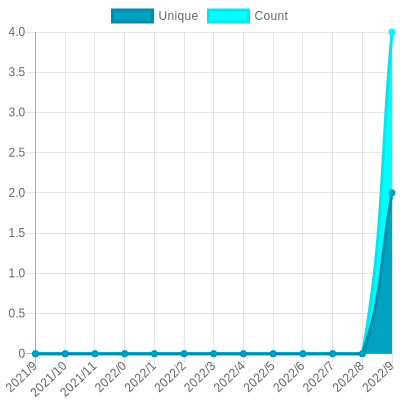
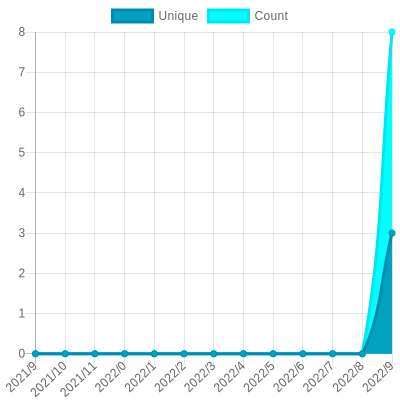
Update views

diff --git a/README.md b/README.md
@@ -26,7 +26,7 @@ The project created and maintained by [gayanvoice](https://github.com/gayanvoice
 			</a>
 		</td>
 		<td>
-			2021/10/24 12:16 AM UTC
+			2021/10/25 12:15 AM UTC
 		</td>
 		<td>
 			2
@@ -42,7 +42,7 @@ The project created and maintained by [gayanvoice](https://github.com/gayanvoice
 			</a>
 		</td>
 		<td>
-			2021/10/24 12:16 AM UTC
+			2021/10/25 12:15 AM UTC
 		</td>
 		<td>
 			2
@@ -53,7 +53,7 @@ The project created and maintained by [gayanvoice](https://github.com/gayanvoice
 	</tr>
 </table>
 
-<small><i>Last updated on 2021/10/26 6:02 PM UTC</i></small>
+<small><i>Last updated on 2021/10/27 12:15 AM UTC</i></small>
 
 ## ✂Copy and 📋 Paste
 ### Total Views Badge

diff --git a/readme/418885649/year.md b/readme/418885649/year.md
@@ -23,10 +23,10 @@
 			<code>2021/10/1</code>
 		</td>
 		<td>
-			<code>2</code>
+			<code>3</code>
 		</td>
 		<td>
-			<code>4</code>
+			<code>8</code>
 		</td>
 	</tr>
 	<tr>
@@ -164,7 +164,7 @@
 </table>
 
 </details>
-<small><i>Last updated on 2021/10/26 6:02 PM UTC</i></small>
+<small><i>Last updated on 2021/10/27 12:14 AM UTC</i></small>
 
 ## ✂Copy and 📋 Paste
 ### SVG Badge

diff --git a/readme/418892131/year.md b/readme/418892131/year.md
@@ -164,7 +164,7 @@
 </table>
 
 </details>
-<small><i>Last updated on 2021/10/26 6:02 PM UTC</i></small>
+<small><i>Last updated on 2021/10/27 12:14 AM UTC</i></small>
 
 ## ✂Copy and 📋 Paste
 ### SVG Badge
